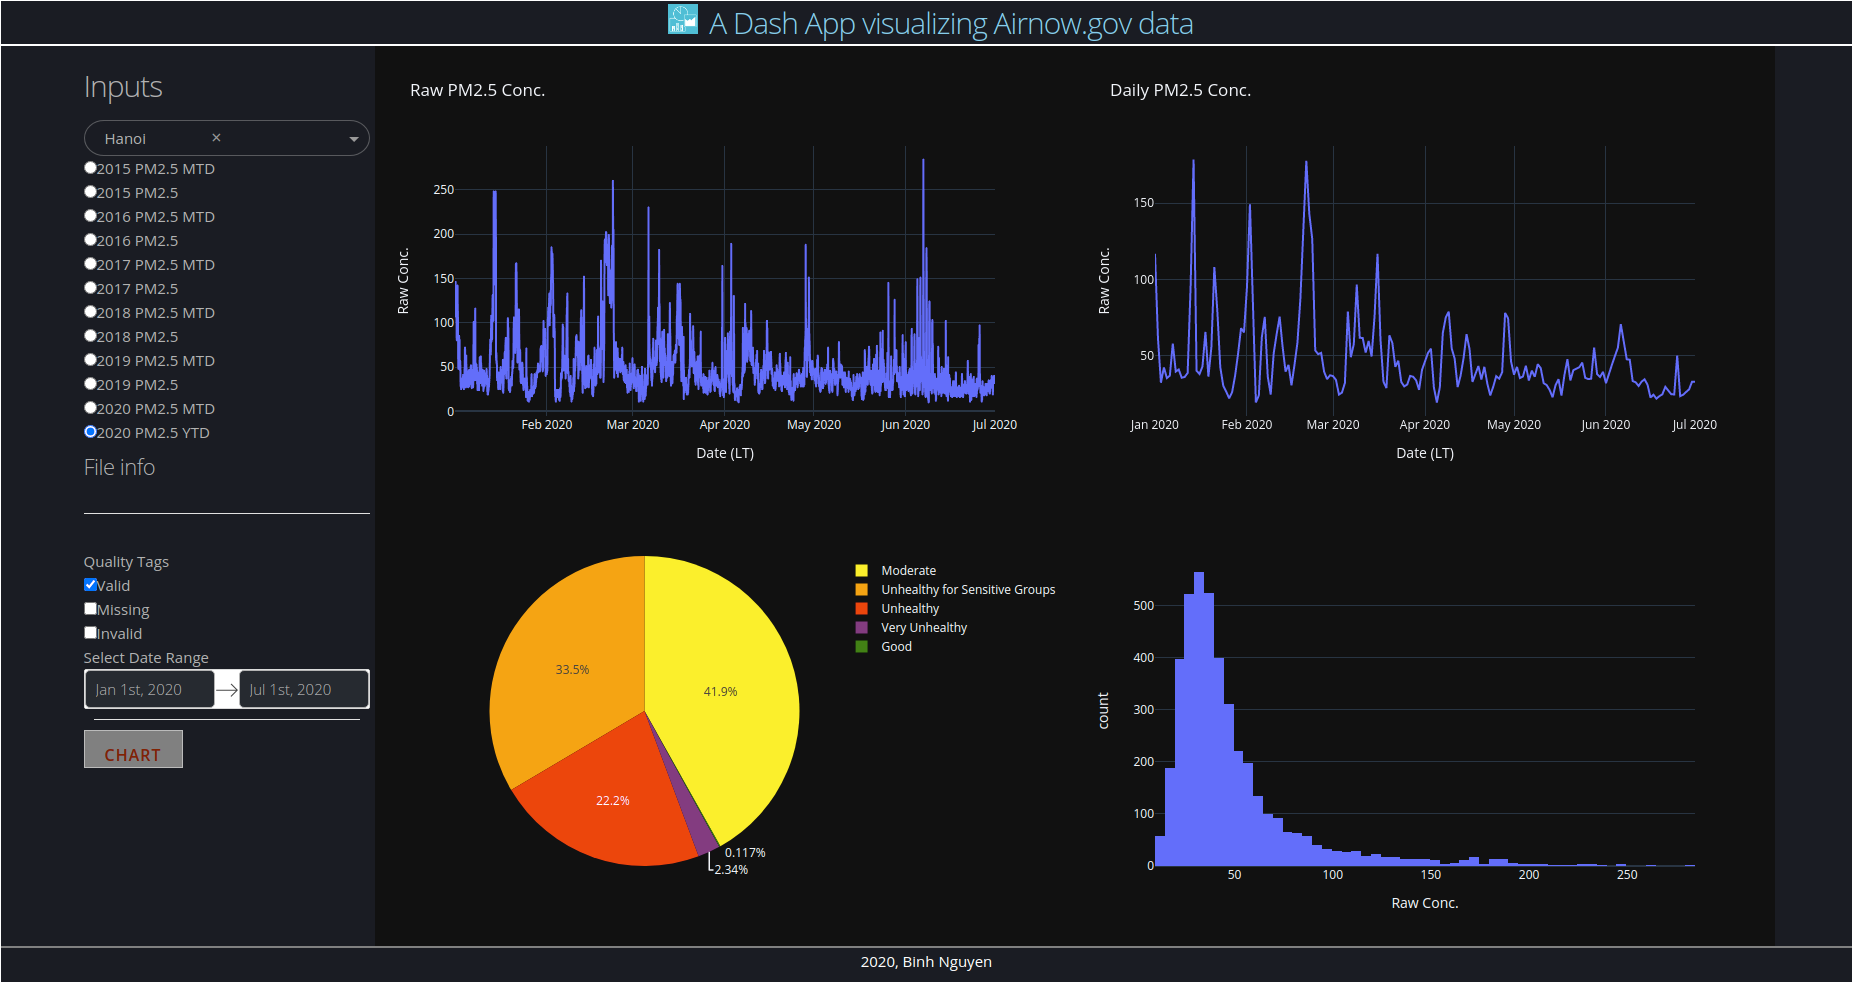
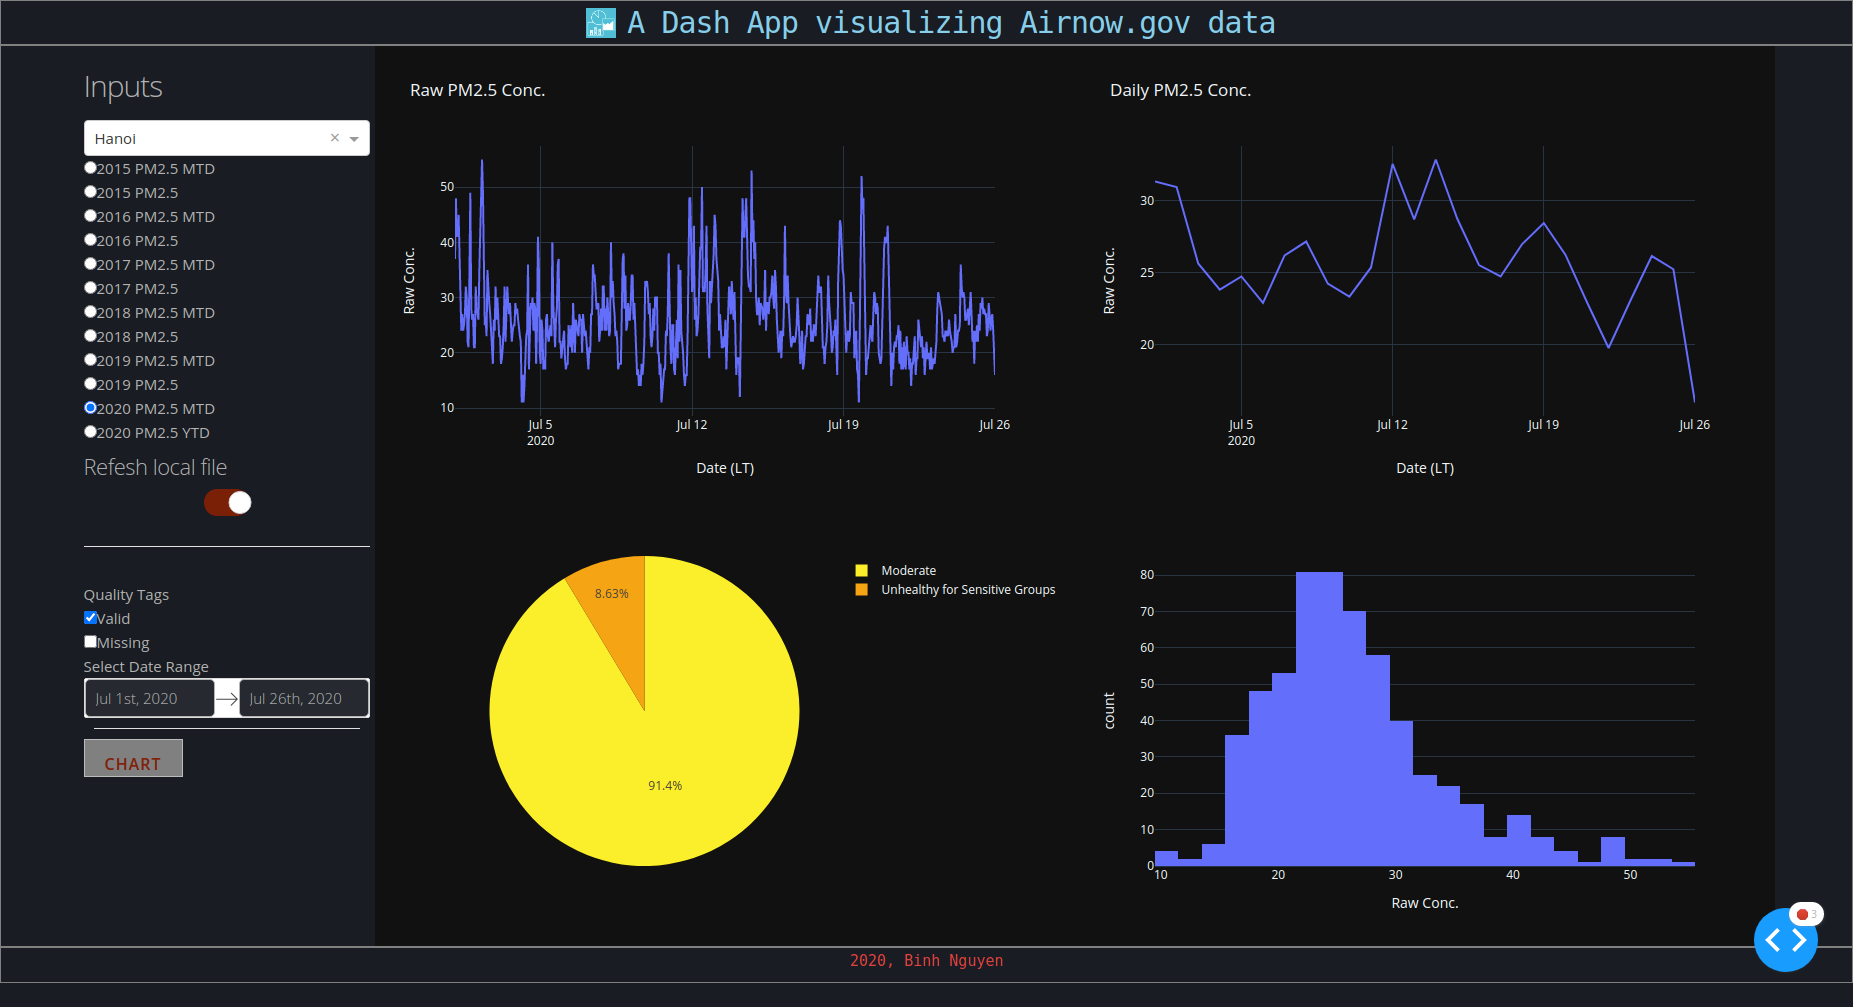
add refresh file option

diff --git a/app.py b/app.py
@@ -1,4 +1,7 @@
-import datetime
+# Binh Nguyen, July 2020
+# Visualize archieved data in airnow.gov
+# Dash, Plotly, Python, Gunicorn
+
 from urllib.request import urlopen
 import json
 import pandas as pd 
@@ -7,6 +10,8 @@ import dash_core_components as dcc
 import dash_bootstrap_components as dbc
 import dash_html_components as html 
 from dash.dependencies import Input, Output, State
+import dash_daq as daq
+
 import plotly.express as px 
 import plotly.io as pio
 from datetime import datetime as dt
@@ -66,7 +71,14 @@ def airnow_select():
 		value='Hanoi',
 		),
 		dcc.RadioItems(id='select_file'),
-		html.H5('File info'),
+		html.H5('Refesh local file'),
+		daq.BooleanSwitch(
+  			id='file_refesh',
+  			on=False,
+			color="#790604",
+			theme='dark',
+			persisted_props =['No', 'Yes'],
+		),
 		html.Link(
 			id='target_file', 
 			children=[html.P('Link')],
@@ -83,11 +95,11 @@ def airnow_select():
 	    html.Label('Select Date Range'),
 		dcc.DatePickerRange(
 			id='date-picker',
-			min_date_allowed = datetime.date(2015,1,1),
-			max_date_allowed = datetime.date(2020,7,30),
-			initial_visible_month=datetime.date(2020, 3, 1),
-			start_date = datetime.date(2019,1,1),
-			end_date = datetime.date(2020,1,1),
+			min_date_allowed = dt(2015,1,1),
+			max_date_allowed = dt(2020,7,30),
+			initial_visible_month=dt(2020, 3, 1),
+			start_date = dt(2019,1,1),
+			end_date = dt(2020,1,1),
 			display_format='MMM Do, YYYY',
 			),
 		html.Hr(style={'margin': '10px 10px'}),
@@ -181,13 +193,14 @@ def select_csv(selected_city, target_csv):
 	[Output('date-picker', 'start_date'),
 	Output('date-picker', 'end_date'),
 	Output('quality-tags', 'options')],
-	[Input('target_file', 'href')]
+	[Input('target_file', 'href'),
+	Input('file_refesh', 'on')]
 	)
-def update_option(target_file):
+def update_option(target_file, file_refesh):
 	global dfraw
 	file = target_file.split('/')[-1]
 	print(f'Filename {file}')
-	if file not in os.listdir('csv/'):
+	if file not in os.listdir('csv/') or file_refesh:
 		dfraw = pd.read_csv(target_file, parse_dates=['Date (LT)'],
                 index_col=['Date (LT)'])
 		dfraw.to_csv(f'csv/{file}')
